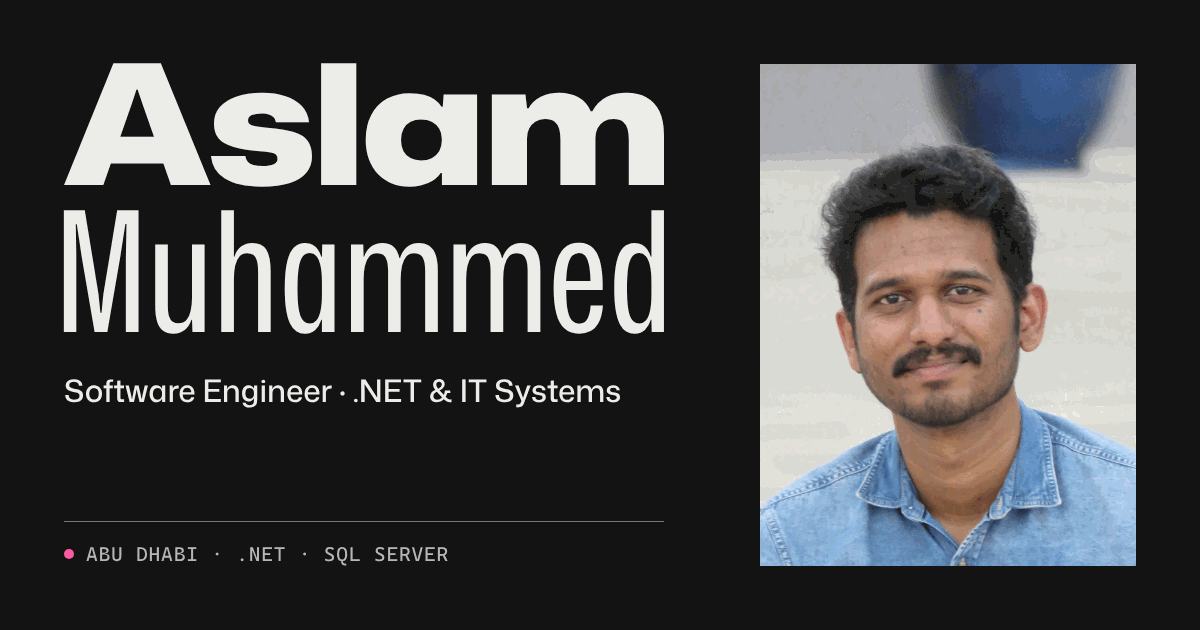
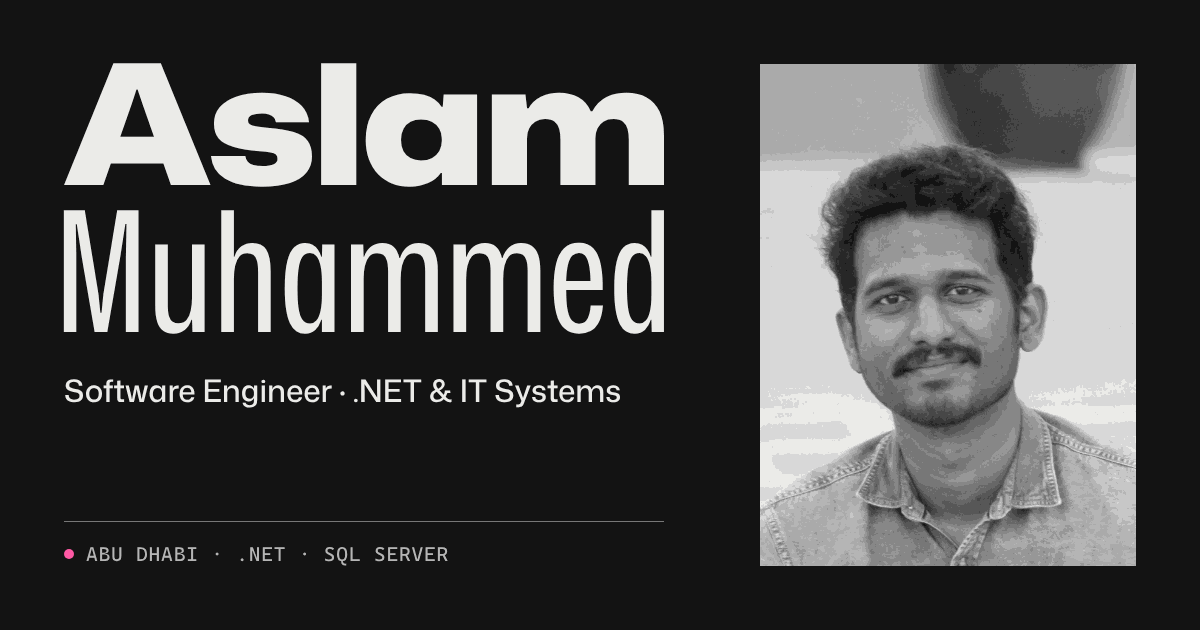
v4 "Equal Measure": QA fixes
Fixes from the three-lens QA round: top bar, stack, 404 page, terminal
drawer, work diagram visual, print and contact styles, self-hosted font
CSS split out, generated sitemap, and the source photo moved out of
public/ (derived sizes stay).

Claude-Session: https://claude.ai/code/session_01JoG8EqWYKkkCKq4BNVG7Gv

Changed region(s): [[0.6167, 0.3317, 0.9558, 0.9048], [0.8017, 0.0905, 0.9558, 0.2714]]

diff --git a/src/components/Stack.tsx b/src/components/Stack.tsx
@@ -1,4 +1,4 @@
-import { useEffect, useState } from 'react';
+import { useEffect, useState, type KeyboardEvent as ReactKeyEvent } from 'react';
 import {
   coreSkills,
   stackGroups,
@@ -51,6 +51,27 @@ interface StackRowProps {
 function StackRow({ rowId, title, note, skills, core = false, open, onToggle }: StackRowProps) {
   const evidenceId = `stack-${rowId}-evidence`;
   const current = open?.row === rowId ? skills.find((s) => s.name === open.skill) : undefined;
+  // One Tab stop per row (the last skill focused, else the first); the arrow keys move
+  // between its skills, so reaching Contact from Work takes a handful of Tabs, not forty.
+  const [stop, setStop] = useState<SkillName | null>(null);
+  const tabStop = skills.some((s) => s.name === stop) ? stop : skills[0]?.name;
+  const onKeyDown = (e: ReactKeyEvent<HTMLUListElement>) => {
+    const keys: Record<string, (i: number, n: number) => number> = {
+      ArrowRight: (i, n) => (i + 1) % n,
+      ArrowDown: (i, n) => (i + 1) % n,
+      ArrowLeft: (i, n) => (i - 1 + n) % n,
+      ArrowUp: (i, n) => (i - 1 + n) % n,
+      Home: () => 0,
+      End: (_, n) => n - 1,
+    };
+    const move = keys[e.key];
+    if (!move) return;
+    const buttons = Array.from(e.currentTarget.querySelectorAll<HTMLButtonElement>('button.skill'));
+    const i = buttons.indexOf(document.activeElement as HTMLButtonElement);
+    if (i < 0) return;
+    e.preventDefault();
+    buttons[move(i, buttons.length)].focus();
+  };
 
   return (
     <div className="stack-row" data-core={core ? '' : undefined}>
@@ -61,7 +82,7 @@ function StackRow({ rowId, title, note, skills, core = false, open, onToggle }: 
 
       <div className="stack-body">
         {/* Desktop and tablets: buttons. */}
-        <ul className="dot-list stack-items" role="list">
+        <ul className="dot-list stack-items" role="list" onKeyDown={onKeyDown}>
           {skills.map((skill) => {
             const pressed = current?.name === skill.name;
             return (
@@ -72,6 +93,8 @@ function StackRow({ rowId, title, note, skills, core = false, open, onToggle }: 
                   aria-expanded={pressed}
                   aria-controls={evidenceId}
                   data-skill={skill.name}
+                  tabIndex={skill.name === tabStop ? 0 : -1}
+                  onFocus={() => setStop(skill.name)}
                   onClick={() => onToggle(rowId, skill.name)}
                 >
                   {skill.name}

diff --git a/src/styles/fonts.css b/src/styles/fonts.css
@@ -1,0 +1,44 @@
+/* Latin and Latin-extended cuts of Mona Sans and Cascadia Mono only. The packages'
+   wght.css also emits Arabic, Hebrew, Cyrillic, Greek and Braille files that this
+   English-only site never loads but would still deploy. Copied from the
+   @fontsource-variable packages; keep in step if they are upgraded. */
+
+/* mona-sans-latin-ext-wght-normal */
+@font-face {
+  font-family: 'Mona Sans Variable';
+  font-style: normal;
+  font-display: swap;
+  font-weight: 200 900;
+  src: url(../../node_modules/@fontsource-variable/mona-sans/files/mona-sans-latin-ext-wght-normal.woff2) format('woff2-variations');
+  unicode-range: U+0100-02BA,U+02BD-02C5,U+02C7-02CC,U+02CE-02D7,U+02DD-02FF,U+0304,U+0308,U+0329,U+1D00-1DBF,U+1E00-1E9F,U+1EF2-1EFF,U+2020,U+20A0-20AB,U+20AD-20C0,U+2113,U+2C60-2C7F,U+A720-A7FF;
+}
+
+/* mona-sans-latin-wght-normal */
+@font-face {
+  font-family: 'Mona Sans Variable';
+  font-style: normal;
+  font-display: swap;
+  font-weight: 200 900;
+  src: url(../../node_modules/@fontsource-variable/mona-sans/files/mona-sans-latin-wght-normal.woff2) format('woff2-variations');
+  unicode-range: U+0000-00FF,U+0131,U+0152-0153,U+02BB-02BC,U+02C6,U+02DA,U+02DC,U+0304,U+0308,U+0329,U+2000-206F,U+20AC,U+2122,U+2191,U+2193,U+2212,U+2215,U+FEFF,U+FFFD;
+}
+
+/* cascadia-mono-latin-ext-wght-normal */
+@font-face {
+  font-family: 'Cascadia Mono Variable';
+  font-style: normal;
+  font-display: swap;
+  font-weight: 200 700;
+  src: url(../../node_modules/@fontsource-variable/cascadia-mono/files/cascadia-mono-latin-ext-wght-normal.woff2) format('woff2-variations');
+  unicode-range: U+0100-02BA,U+02BD-02C5,U+02C7-02CC,U+02CE-02D7,U+02DD-02FF,U+0304,U+0308,U+0329,U+1D00-1DBF,U+1E00-1E9F,U+1EF2-1EFF,U+2020,U+20A0-20AB,U+20AD-20C0,U+2113,U+2C60-2C7F,U+A720-A7FF;
+}
+
+/* cascadia-mono-latin-wght-normal */
+@font-face {
+  font-family: 'Cascadia Mono Variable';
+  font-style: normal;
+  font-display: swap;
+  font-weight: 200 700;
+  src: url(../../node_modules/@fontsource-variable/cascadia-mono/files/cascadia-mono-latin-wght-normal.woff2) format('woff2-variations');
+  unicode-range: U+0000-00FF,U+0131,U+0152-0153,U+02BB-02BC,U+02C6,U+02DA,U+02DC,U+0304,U+0308,U+0329,U+2000-206F,U+20AC,U+2122,U+2191,U+2193,U+2212,U+2215,U+FEFF,U+FFFD;
+}

diff --git a/src/components/work/diagrams/Visual.tsx b/src/components/work/diagrams/Visual.tsx
@@ -65,8 +65,7 @@ function DiagramFigure({ diagram }: { diagram: Diagram }) {
 
 /**
  * 'Trace a ticket' / 'Trace a receipt': follows one example through the drawing, one
- * numbered step at a time (lib/trace.ts). Pressed while a trace is shown; pressing
- * again clears it. The current step is also written out in a status line, so the
+ * numbered step at a time (lib/trace.ts). Pressing again clears it. The current step is also written out in a status line, so the
  * walk-through never depends on seeing the highlight.
  */
 function TraceControl({ id }: { id: string }) {
@@ -75,10 +74,15 @@ function TraceControl({ id }: { id: string }) {
   const current = status === 'idle' ? null : trace.steps[step - 1];
   return (
     <div className="dg-trace">
-      <button type="button" className="pill pill-outline trace-btn" aria-pressed={status !== 'idle'} onClick={() => toggleTrace(id)}>
+      <button type="button" className="pill pill-outline trace-btn" data-active={status !== 'idle' ? '' : undefined} onClick={() => toggleTrace(id)}>
         {trace.button}
+        {status !== 'idle' && <span className="sr-only"> (press again to clear)</span>}
       </button>
-      <p className="trace-status" role="status">
+      {/* One announcement when the walk ends; the per-step line below is for eyes only. */}
+      <span className="sr-only" role="status">
+        {status === 'done' ? `Trace finished: ${trace.steps.length} steps. The same list is under Read as text.` : ''}
+      </span>
+      <p className="trace-status" aria-hidden="true">
         {current && (
           <>
             <span className="trace-n">

diff --git a/src/styles/work.css b/src/styles/work.css
@@ -226,6 +226,14 @@
   }
 }
 
+/* Where the rail folds into a line (tablet width) the line is already full of mono
+   text: the status gets a line of its own rather than trailing the role. */
+@media (min-width: 1024px) and (max-width: 1279px) {
+  .project-meta > .project-meta-status {
+    flex: 0 0 100%;
+  }
+}
+
 /* ---------- Text column ---------- */
 .row-summary {
   margin: 12px 0 0;
@@ -487,7 +495,7 @@
   container-type: inline-size;
   padding: 20px;
   border: 1px solid rgb(var(--rule));
-  background: rgb(var(--surface));
+  background: transparent;
 }
 .dg-label {
   margin: 0 0 16px;
@@ -791,6 +799,11 @@
   text-underline-offset: 4px;
   transition: color 0.16s var(--ease-standard), text-decoration-color 0.16s var(--ease-standard);
 }
+@media (max-width: 640px), (pointer: coarse) {
+  .dg-caption-link {
+    min-height: 44px;
+  }
+}
 .dg-caption-link:hover {
   color: rgb(var(--ink));
   text-decoration-color: rgb(var(--accent-ink));
@@ -1037,7 +1050,12 @@ html.rm .swap > * {
   font-size: 14px;
   cursor: pointer;
 }
-.trace-btn[aria-pressed='true'] {
+@media (max-width: 640px), (pointer: coarse) {
+  .trace-btn {
+    height: 44px;
+  }
+}
+.trace-btn[data-active] {
   border-color: rgb(var(--ink));
   background: rgb(var(--raised));
 }

diff --git a/src/styles/print.css b/src/styles/print.css
@@ -34,13 +34,13 @@
   .prompt-band,
   .skip-link,
   [role='dialog'],
+  .term-drawer,
   .email-menu-wrap,
   .hero-actions > .pill,
   .hero-links li:last-child,
   .portrait-toggle,
   .row-visual,
-  .row-bullets,
-  .row-foot,
+  .row-actions,
   .also .stack-line,
   .also .row-actions,
   .also-details,
@@ -147,9 +147,23 @@
     color: rgb(var(--ink)) !important;
   }
 
-  /* ---------- Work: title, meta, summary, figures ---------- */
+  /* ---------- Work: title, meta, summary, figures, bullets, stack, case study ----------
+     Diagrams stay hidden; the case study (problem, approach, outcome) is their text
+     equivalent, so it prints open. */
   .work-row {
     padding-block: 5mm !important;
+  }
+  .work .disclosure {
+    grid-template-rows: 1fr !important;
+    visibility: visible !important;
+    transition: none !important;
+  }
+  .work .row-bullets {
+    margin-top: 3mm !important;
+  }
+  .work .row-foot {
+    display: block !important;
+    margin-top: 3mm !important;
   }
   .row-summary,
   .also-summary {

diff --git a/src/styles/chrome.css b/src/styles/chrome.css
@@ -362,6 +362,17 @@ html:not(.amd) .wordmark {
 .sb-btn:focus-visible {
   outline-offset: -2px;
 }
+/* The bar stays 28px; on touch the hit area grows past it with a pseudo-element. */
+@media (max-width: 640px), (pointer: coarse) {
+  .sb-btn {
+    position: relative;
+  }
+  .sb-btn::after {
+    content: '';
+    position: absolute;
+    inset: -10px -2px;
+  }
+}
 .sb-btn .icon {
   width: 10px;
   height: 10px;
@@ -579,4 +590,18 @@ html.rm .sb-digits .roll {
 }
 .nf-path {
   margin-left: auto;
+}
+
+/* Very short viewports (a phone on its side, or 400% zoom on a laptop: 256 px tall):
+   two fixed bars would take a third of the screen. The status bar's controls (clock,
+   terminal, theme, shortcuts) all have a second home in the footer, so it steps aside
+   and the top bar shrinks. */
+@media (max-height: 300px) {
+  :root {
+    --topbar-h: 48px;
+    --statusbar-h: 0px;
+  }
+  .statusbar {
+    display: none;
+  }
 }

diff --git a/scripts/og/og.html b/scripts/og/og.html
@@ -31,7 +31,7 @@ html, body { width: 1200px; height: 630px; overflow: hidden; background: #131313
 .meta { position: absolute; left: 64px; bottom: 64px; width: 600px; border-top: 1px solid #767676; padding-top: 20px;
   font-family: 'Cascadia Mono Variable'; font-size: 20px; letter-spacing: 0.04em; text-transform: uppercase; color: #B7B7B5; display: flex; align-items: center; gap: 12px; }
 .dot { width: 10px; height: 10px; border-radius: 50%; background: #FF5AA5; flex: none; }
-.portrait { position: absolute; right: 64px; top: 64px; width: 376px; height: 502px; object-fit: cover; object-position: 50% 30%; }
+.portrait { position: absolute; right: 64px; top: 64px; width: 376px; height: 502px; object-fit: cover; object-position: 50% 30%; filter: grayscale(1); }
 </style>
 </head>
 <body>

diff --git a/src/NotFound.tsx b/src/NotFound.tsx
@@ -4,7 +4,7 @@ import { Wordmark } from './components/TopBar';
 
 const BASE = import.meta.env.BASE_URL;
 /** What the prerendered page says until the script below fills in the real address. */
-export const NOT_FOUND_FALLBACK = '/this-address';
+export const NOT_FOUND_FALLBACK = 'this address';
 
 /**
  * The 404 page (dist/404.html, prerendered; scripts/prerender.mjs adds the one line
@@ -18,7 +18,7 @@ export default function NotFound() {
     <StrictMode>
       <header className="topbar nf-bar" data-scrolled="">
         <div className="shell topbar-inner">
-          <Wordmark />
+          <Wordmark href={BASE} />
           <nav aria-label="Sections">
             <ul className="nf-nav">
               {sections.map((s) => (

diff --git a/src/styles/terminal.css b/src/styles/terminal.css
@@ -275,8 +275,14 @@
   visibility: visible;
   transition: transform 0.24s var(--ease-standard), visibility 0s;
 }
+/* The drawer is a full-width bar: a frame round all of it would read as a highlighted
+   card. Focus shows on the prompt line (below), the buttons and the log instead. */
 .term-drawer:focus-within {
-  outline-offset: -2px;
+  outline: none;
+}
+.term-drawer .t-input:focus-within {
+  outline: 2px solid rgb(var(--focus));
+  outline-offset: 2px;
 }
 .term-drawer .t-body {
   flex: 1 1 auto;
@@ -311,7 +317,7 @@ html.drawer-open {
     min-height: 44px;
   }
   .term-btn {
-    min-height: 36px;
+    min-height: 44px;
   }
   /* 16px stops iOS zooming the page when the prompt takes focus. */
   .t-input input {

diff --git a/src/components/TopBar.tsx b/src/components/TopBar.tsx
@@ -10,9 +10,10 @@ interface TopBarProps {
 }
 
 /** The mini lockup: the same two widths as the hero name, at 16px. */
-export function Wordmark({ className = 'wordmark' }: { className?: string }) {
+/** `href` defaults to the top of this page; the 404 page passes the site root instead. */
+export function Wordmark({ className = 'wordmark', href = `#${TOP_ID}` }: { className?: string; href?: string }) {
   return (
-    <a href={`#${TOP_ID}`} className={className}>
+    <a href={href} className={className}>
       <span className="a">{profile.givenName}</span> <span className="m">{profile.familyName}</span>
     </a>
   );

diff --git a/src/styles/overlays.css b/src/styles/overlays.css
@@ -290,6 +290,18 @@ html.rm .pal-sheet {
 .keys-secret {
   color: rgb(var(--ink-3));
 }
+/* The ten Konami keycaps take the row's width on a phone: label on top, caps below. */
+@media (max-width: 480px) {
+  .keys-list li.keys-secret {
+    flex-wrap: wrap;
+    justify-content: flex-start;
+    gap: 4px 16px;
+    padding-block: 10px;
+  }
+  .keys-secret .keys-combo {
+    justify-content: flex-start;
+  }
+}
 .keys-secret .keys-combo kbd {
   color: rgb(var(--ink-2));
 }

diff --git a/src/styles/sections.css b/src/styles/sections.css
@@ -208,6 +208,13 @@ html:not(.js) .copy-link {
   color: rgb(var(--ink));
   text-decoration-color: rgb(var(--accent-ink));
 }
+/* Phones and touch screens: the quiet links are still the page's controls. */
+@media (max-width: 640px), (pointer: coarse) {
+  .text-toggle,
+  .text-link {
+    min-height: 44px;
+  }
+}
 
 /* ---------- Status: Private / In progress / Live ----------
    A label, not a control: a hairline border, no hover, no colour. (The live marks in
